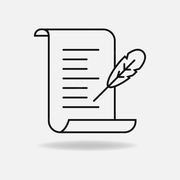
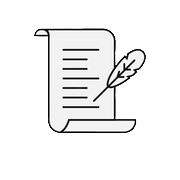
added new pics for dark background, responsive img swapping

diff --git a/projects.html b/projects.html
@@ -23,7 +23,7 @@
             <br>
             <div class="page-title"><h2>Projects</h2></div>
             <section class="card-deck">
-                <div class="card light">
+                <div class="card dark">
                     <a target="_blank" href="https://github.com/tyrzong/Tyr-s-Haiku">
                         <div class="card-img"><img src="img/haiku.png"></div>
                     </a>
@@ -32,15 +32,6 @@
                         <p>IOS app that prompt the user to write an haiku each day. I have been writing a haiku every day for over a year. 
                             I created this app to add syllable counting to help me write the haiku and also keep track of all the haikus 
                             written. I use this app daily.</p>
-                    </div>
-                </div>
-                <div class="card dark">
-                    <a target="_blank" href="https://github.com/tyrzong/MNIST_digit_recognition">
-                        <div class="card-img"><img src="img/mnist.jpeg"></div>
-                    </a>
-                    <div class="card-text">
-                        <h3>MNIST digit recognition</h3>
-                        <p>AI project that trains a model to recognize handwritten digits.</p>
                     </div>
                 </div>
                 <div class="card light">
@@ -55,18 +46,13 @@
                 </div>
                 <div class="card dark">
                     <a target="_blank" href="https://cci.drexel.edu/SeniorDesign/2020_2021/CareGiveriOS/index.html">
-                        <div class="card-img"><img src="img/caretaker.jpeg"></div>
+                        <div class="card-img"><img src="img/caretaker-removebg-preview.png"></div>
                     </a>
                     <div class="card-text">
                         <h3>Caretaker IOS</h3>
-                        <p>People living with intellectual disabilities experience difficulty remembering to complete everyday tasks such as washing hands, 
-                            turning off lights, or bringing keys with them. A verbal cue is enough to serve as a reminder for these activities, but reminders 
-                            like this require a caregiver to actively monitor them. While helpful, such surveillance can be invasive and does little to 
-                            promote independence - a trait sought after by emerging adults with intellectual disabilities</p>
-                        <p>CareGiver iOS solves this with a task-based notification system that is triggered by Bluetooth beacons placed in strategic 
+                        <p>CareGiver iOS is a task-based notification system that is triggered by Bluetooth beacons placed in strategic 
                             locations. The CareGivee, a user with an intellectual disability, receives a notification as well as instructions to complete 
-                            the task when they come into contact with the Bluetooth beacon. CareGiver iOS lightens the workload of the caregiver by removing 
-                            the need for constant monitoring. With the use of CareGiver iOS, the user is able to gain more independence.</p>
+                            the task when they come into contact with the Bluetooth beacon.</p>
                     </div>
                 </div>
                 <div class="card light">
@@ -75,6 +61,7 @@
                     </a>
                     <div class="card-text">
                         <h3>Other projects</h3>
+                        <p>You can find all my other projects on my github</p>
                     </div>
                 </div>
             </section>

diff --git a/css/styles.css b/css/styles.css
@@ -448,13 +448,6 @@ textarea {
   grid-template-columns: auto;
       grid-template-areas: "h cl" "a ." "p ." "s ." "r ." "c .";
 }
-@media (min-width: 785px) {
-  .navbar {
-    -ms-grid-rows: 100px;
-    grid-template-rows: 100px;
-        grid-template-areas: "h  h  h  h  a  p  s  r  c";
-  }
-}
 @media (min-width: 1024px) {
   .navbar {
     -ms-grid-rows: 100px 50px;
@@ -475,11 +468,6 @@ textarea {
     font-size: 65px;
   }
 }
-@media (min-width: 785px) {
-  .navbar .nav-header {
-    text-align: center;
-  }
-}
 .navbar .nav-item {
   margin-left: 16px;
   height: 30px;
@@ -490,15 +478,6 @@ textarea {
           align-items: flex-end;
   display: none;
   color: var(--darktan);
-}
-@media (min-width: 785px) {
-  .navbar .nav-item {
-    text-align: center;
-    display: -ms-grid;
-    display: grid;
-    padding: 45px 0;
-    font-size: 20px;
-  }
 }
 @media (min-width: 1024px) {
   .navbar .nav-item {
@@ -516,15 +495,6 @@ textarea {
   padding-bottom: 0;
   display: none;
   color: var(--darkgrey);
-}
-@media (min-width: 785px) {
-  .navbar .active-nav-item {
-    text-align: center;
-    display: -ms-grid;
-    display: grid;
-    padding: 45px 0;
-    font-size: 20px;
-  }
 }
 @media (min-width: 1024px) {
   .navbar .active-nav-item {
@@ -544,7 +514,7 @@ textarea {
   margin-top: 32px;
   color: var(--darkgrey);
 }
-@media (min-width: 785px) {
+@media (min-width: 1024px) {
   .navbar .collapse-nav-btn {
     display: none;
   }
@@ -593,34 +563,6 @@ textarea {
   -ms-grid-row: 1;
   -ms-grid-column: 3;
   grid-area: cl;
-}
-
-@media (min-width: 785px){
-  #header {
-    -ms-grid-row: 1;
-    -ms-grid-column: 1;
-    -ms-grid-column-span: 4;
-  }
-  #about {
-    -ms-grid-row: 1;
-    -ms-grid-column: 5;
-  }
-  #association {
-    -ms-grid-row: 1;
-    -ms-grid-column: 7;
-  }
-  #contact {
-    -ms-grid-row: 1;
-    -ms-grid-column: 9;
-  }
-  #resume {
-    -ms-grid-row: 1;
-    -ms-grid-column: 8;
-  }
-  #projects {
-    -ms-grid-row: 1;
-    -ms-grid-column: 6;
-  }
 }
 
 @media (min-width: 1024px){
@@ -686,6 +628,21 @@ textarea {
   display: grid;
   -ms-grid-columns: auto;
   grid-template-columns: auto;
+  gap: 10px;
+}
+@media (min-width: 1024px) {
+  .card-deck {
+    -ms-grid-columns: (1fr)[2];
+    grid-template-columns: repeat(2, 1fr);
+  }
+}
+@media (min-width: 1024px) {
+  .card-deck .card {
+    display: -ms-grid;
+    display: grid;
+    -ms-grid-rows: auto auto;
+    grid-template-rows: auto auto;
+  }
 }
 .card-deck .card .card-img {
   padding-top: 20px;
@@ -697,15 +654,45 @@ textarea {
   margin-right: auto;
   max-height: 180px;
 }
+@media (min-width: 1024px) {
+  .card-deck .card .card-img img {
+    max-height: 200px;
+  }
+}
+.card-deck .card .card-img #afsc {
+  content: url("/img/afsc-logo-inverted.png");
+}
+@media (min-width: 1024px) {
+  .card-deck .card .card-img #afsc {
+    content: url("/img/AFSC-removebg-preview.png");
+  }
+}
 .card-deck .card .card-text {
   padding-left: 16px;
   padding-right: 16px;
   padding-bottom: 20px;
 }
+@media (min-width: 1024px) {
+  .card-deck .card .card-text {
+    max-width: 300px;
+    margin-left: auto;
+    margin-right: auto;
+  }
+}
+.card-deck .card a {
+  margin-bottom: auto;
+  margin-top: auto;
+}
 
 .dark {
   background-color: var(--darkgrey);
   color: var(--bgcolor);
+}
+@media (min-width: 1024px) {
+  .dark {
+    background-color: var(--bgcolor);
+    color: var(--darkgrey);
+  }
 }
 
 .light {

diff --git a/association.html b/association.html
@@ -30,15 +30,15 @@
                     </a>
                     <div class="card-text">
                         <h4>Drexel CCI</h4>
-                        <p>The College of Computing & Informatics is a national leader in information and technology education. With cutting edge curriculum and groundbreaking research led by a world-class faculty, our college is one of the only institutions in the nation that can equip you with the comprehensive knowledge, skills and hands-on experience to drive innovation and improve lives within any industry or career field you choose. No matter where your passions lie, our deep relationships with industry leaders and broad, interdisciplinary programming, coupled with Drexel’s fully integrated cooperative education program, create an unmatched and inclusive environment for 21st century education and research.</p>  
+                        <p>The College of Computing & Informatics is a national leader in information and technology education. With cutting edge curriculum and groundbreaking research led by a world-class faculty, our college is one of the only institutions in the nation that can equip you with the comprehensive knowledge, skills and hands-on experience to drive innovation and improve lives within any industry or career field you choose.</p>  
                     </div>
                 </div>
                 <div class="card dark">
                     <a target="_blank" href="https://afsc.org/">
-                        <div class="card-img"><img src="img/AFSC.jpg"></div>
+                        <div class="card-img"><img id="afsc" src="img/afsc-logo-inverted.png"></div>
                     </a>
                     <div class="card-text">
-                        <h4>AFSC</h4>
+                        <h4>American Friends Service Committee</h4>
                         <p>Guided by the Quaker belief in the divine light of each person, AFSC works with people of all faiths and backgrounds to challenge unjust systems and promote lasting peace.</p>
                     </div>
                 </div>
@@ -53,7 +53,7 @@
                 </div>
                 <div class="card dark">
                     <a target="_blank" href="https://google.com/">
-                        <div class="card-img"><img src="img/google-logo-2020.jpg"></div>
+                        <div class="card-img"><img src="img/google-logo-2020-removebg-preview.png"></div>
                     </a>
                     <div class="card-text">
                         <h4>Google</h4>

diff --git a/scss/components/_navigation.scss b/scss/components/_navigation.scss
@@ -16,11 +16,11 @@
         "s ."
         "r ."
         "c .";
-    @include md{
-        grid-template-rows: 100px;
-        grid-template-areas:
-        "h  h  h  h  a  p  s  r  c";
-    }
+    // @include md{
+    //     grid-template-rows: 100px;
+    //     grid-template-areas:
+    //     "h  h  h  h  a  p  s  r  c";
+    // }
     @include lg{
         grid-template-rows: 100px 50px;
         grid-template-areas:
@@ -37,9 +37,6 @@
                 font-size: 65px;
             }
         }
-        @include md{
-            text-align: center;
-        }
     }
 
     .nav-item {
@@ -49,12 +46,12 @@
         font-size: 13px;
         align-items: flex-end;
         display: none;
-        @include md{
-            text-align: center;
-            display: grid;
-            padding: 45px 0;
-            font-size: 20px;
-        }
+        // @include md{
+        //     text-align: center;
+        //     display: grid;
+        //     padding: 45px 0;
+        //     font-size: 20px;
+        // }
         @include lg{
             display: grid;
             padding: 80px 0;
@@ -70,12 +67,12 @@
         padding-top: 15px 0;
         padding-bottom: 0;
         display: none;
-        @include md{
-            text-align: center;
-            display: grid;
-            padding: 45px 0;
-            font-size: 20px;
-        }
+        // @include md{
+        //     text-align: center;
+        //     display: grid;
+        //     padding: 45px 0;
+        //     font-size: 20px;
+        // }
         @include lg{
             display: grid;
             padding: 80px 0;
@@ -92,7 +89,7 @@
         padding: 10px;
         margin-top: 32px;    
         color: var(--darkgrey);
-        @include md{
+        @include lg{
             display: none;
         }
     }

diff --git a/scss/layout/_page.scss b/scss/layout/_page.scss
@@ -25,23 +25,53 @@
     display: grid;
     grid-template-columns: auto;
     // background-color: brown;
+    gap: 10px;
+    @include lg{
+        grid-template-columns: repeat(2, 1fr);
+    }
     
     .card{
-        // background-color: green;
+        // border-style: solid;
+        @include lg{
+            display: grid;
+            grid-template-rows: auto auto;
+        }
         .card-img{
             padding-top: 20px;
             padding-bottom: 20px;
+            // background-color: brown;
             img{
                 display: block;
                 margin-left: auto;
                 margin-right: auto;
                 max-height: 180px;
+                @include lg{
+                    max-height: 200px;
+                }
+                
+            }
+            #afsc{
+                content: url("/img/afsc-logo-inverted.png");
+                @include lg{
+                    content: url("/img/AFSC-removebg-preview.png");
+                }
+                
             }
         }
         .card-text{
+            // background-color: purple;
             padding-left: 16px;
             padding-right: 16px;
             padding-bottom: 20px;
+            @include lg{
+                max-width: 300px;
+                margin-left: auto;
+                margin-right: auto;
+            }
+        }
+        a{
+            margin-bottom: auto;
+            margin-top: auto;
         }
     }
 }
@@ -49,6 +79,10 @@
 .dark{
     background-color: var(--darkgrey);
     color: var(--bgcolor);
+    @include lg{
+        background-color: var(--bgcolor);
+        color: var(--darkgrey);
+    }
 }
 .light{
     background-color: var(--bgcolor);
